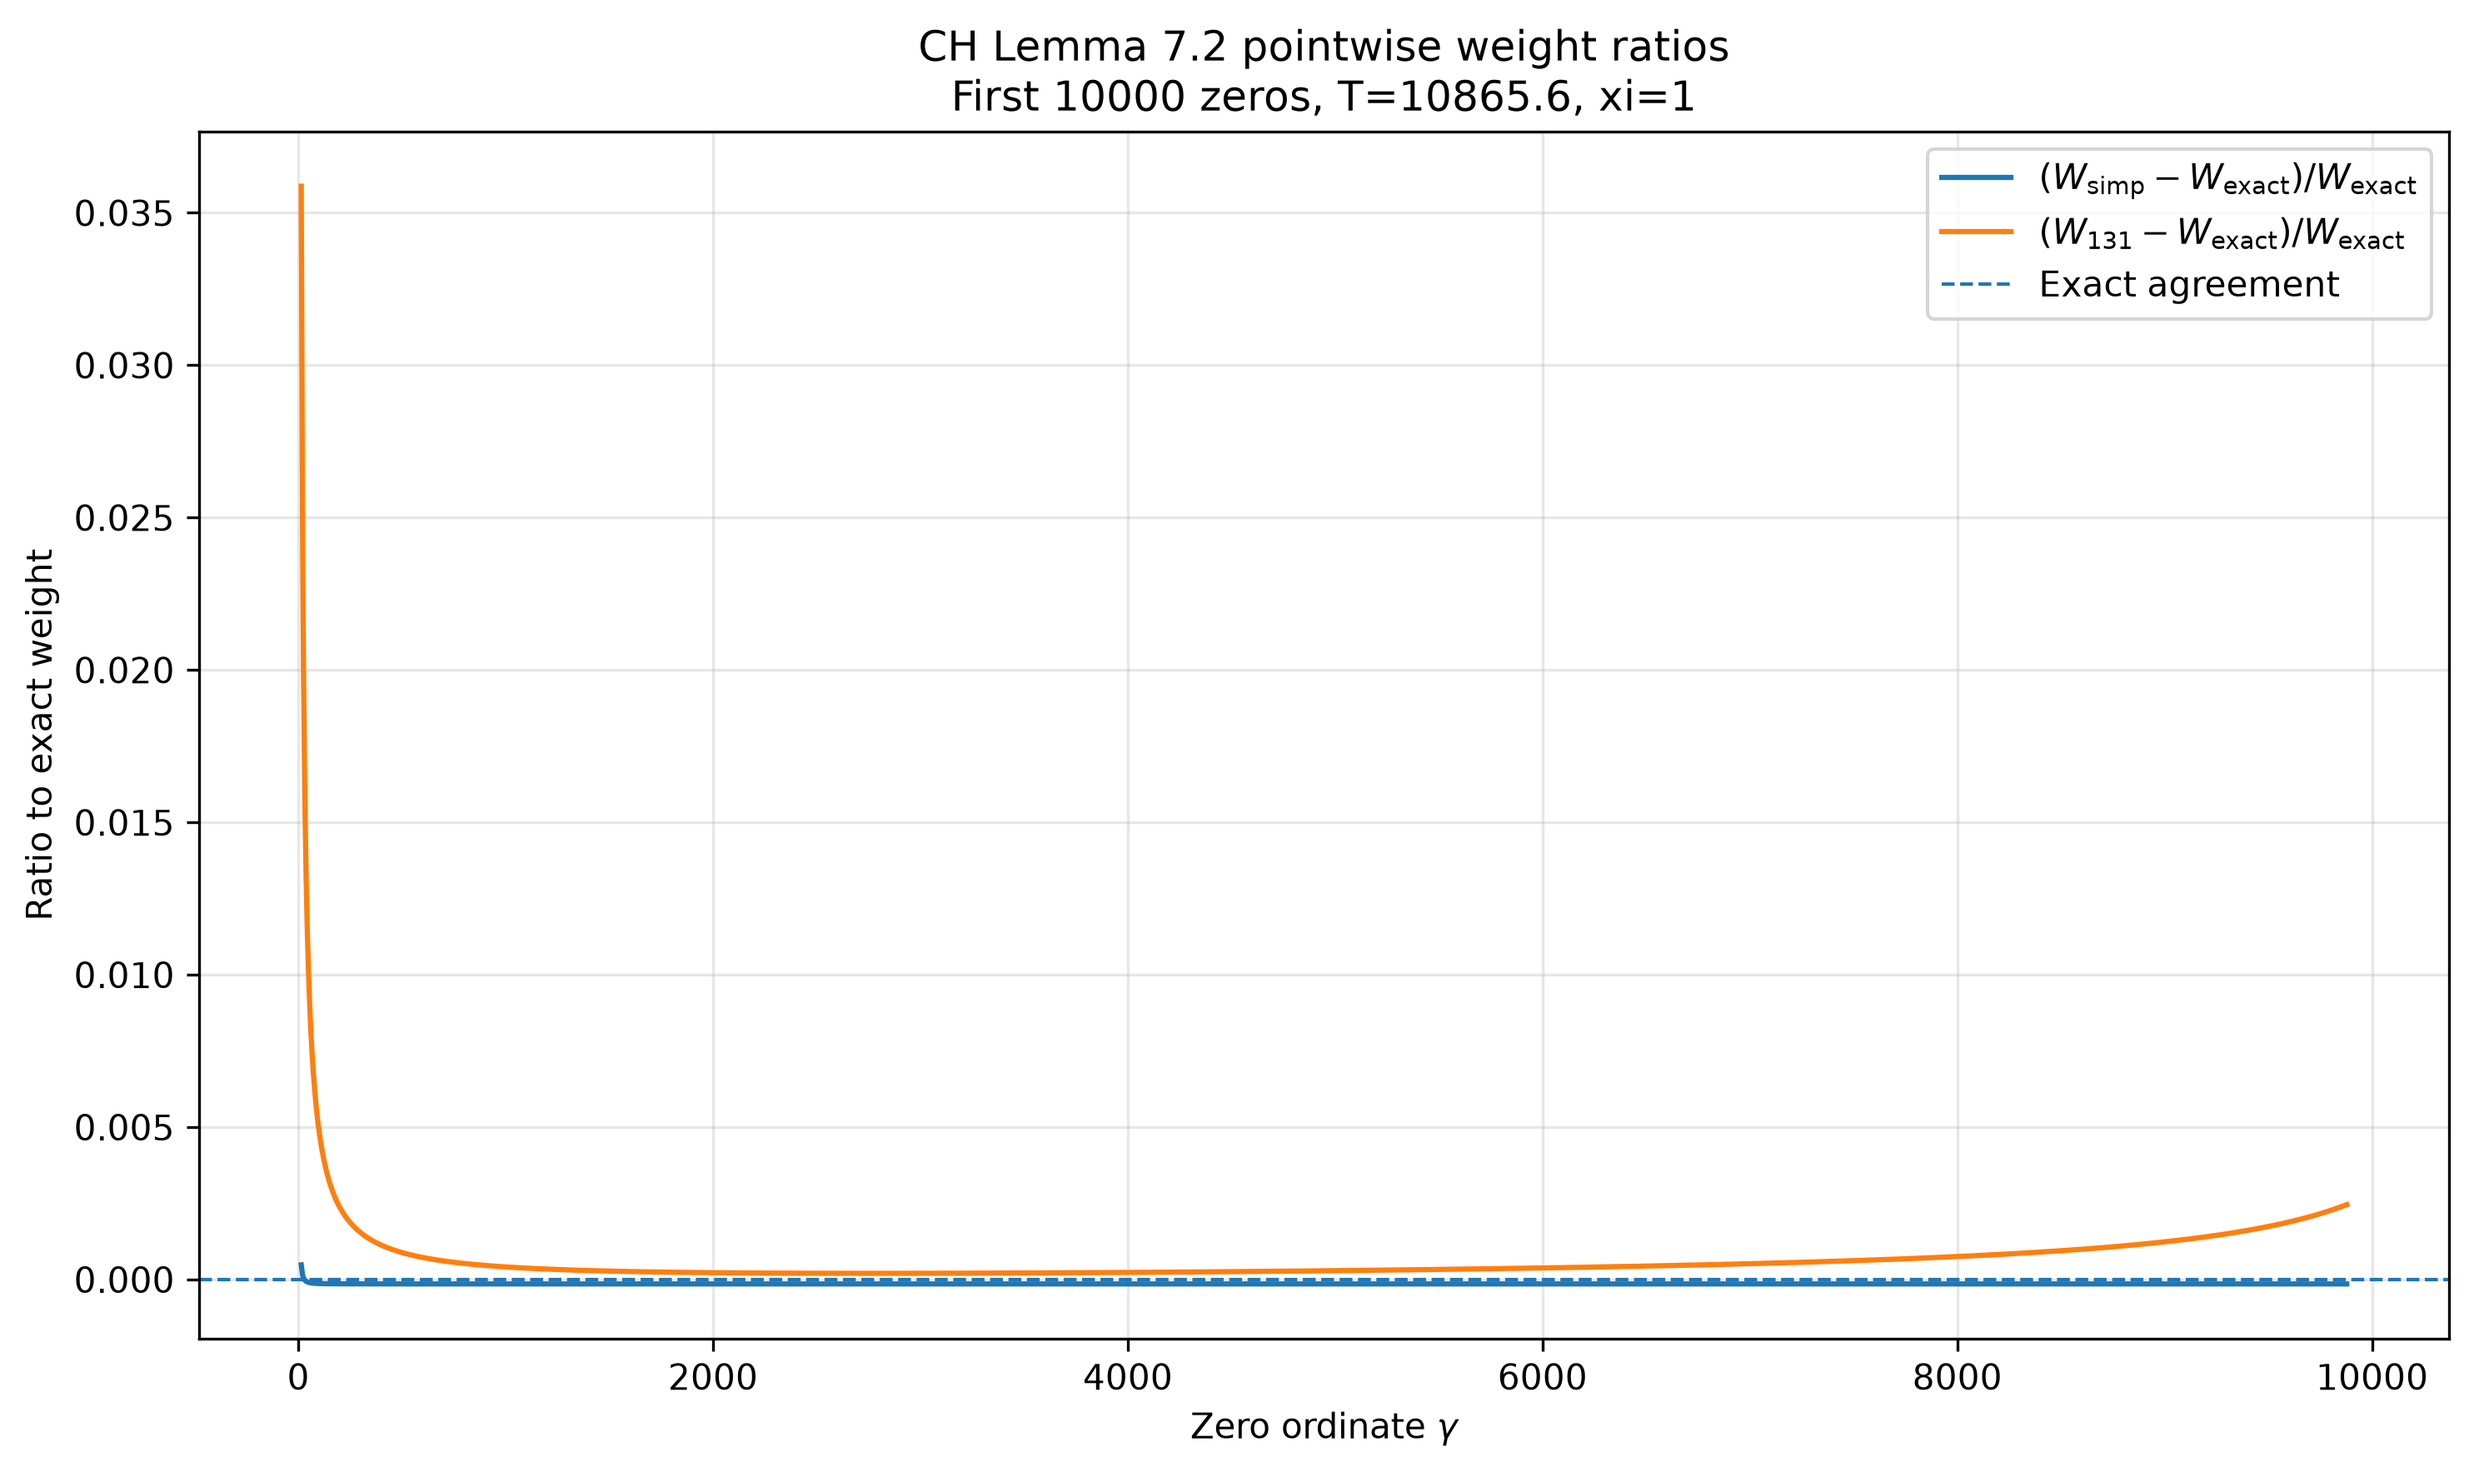
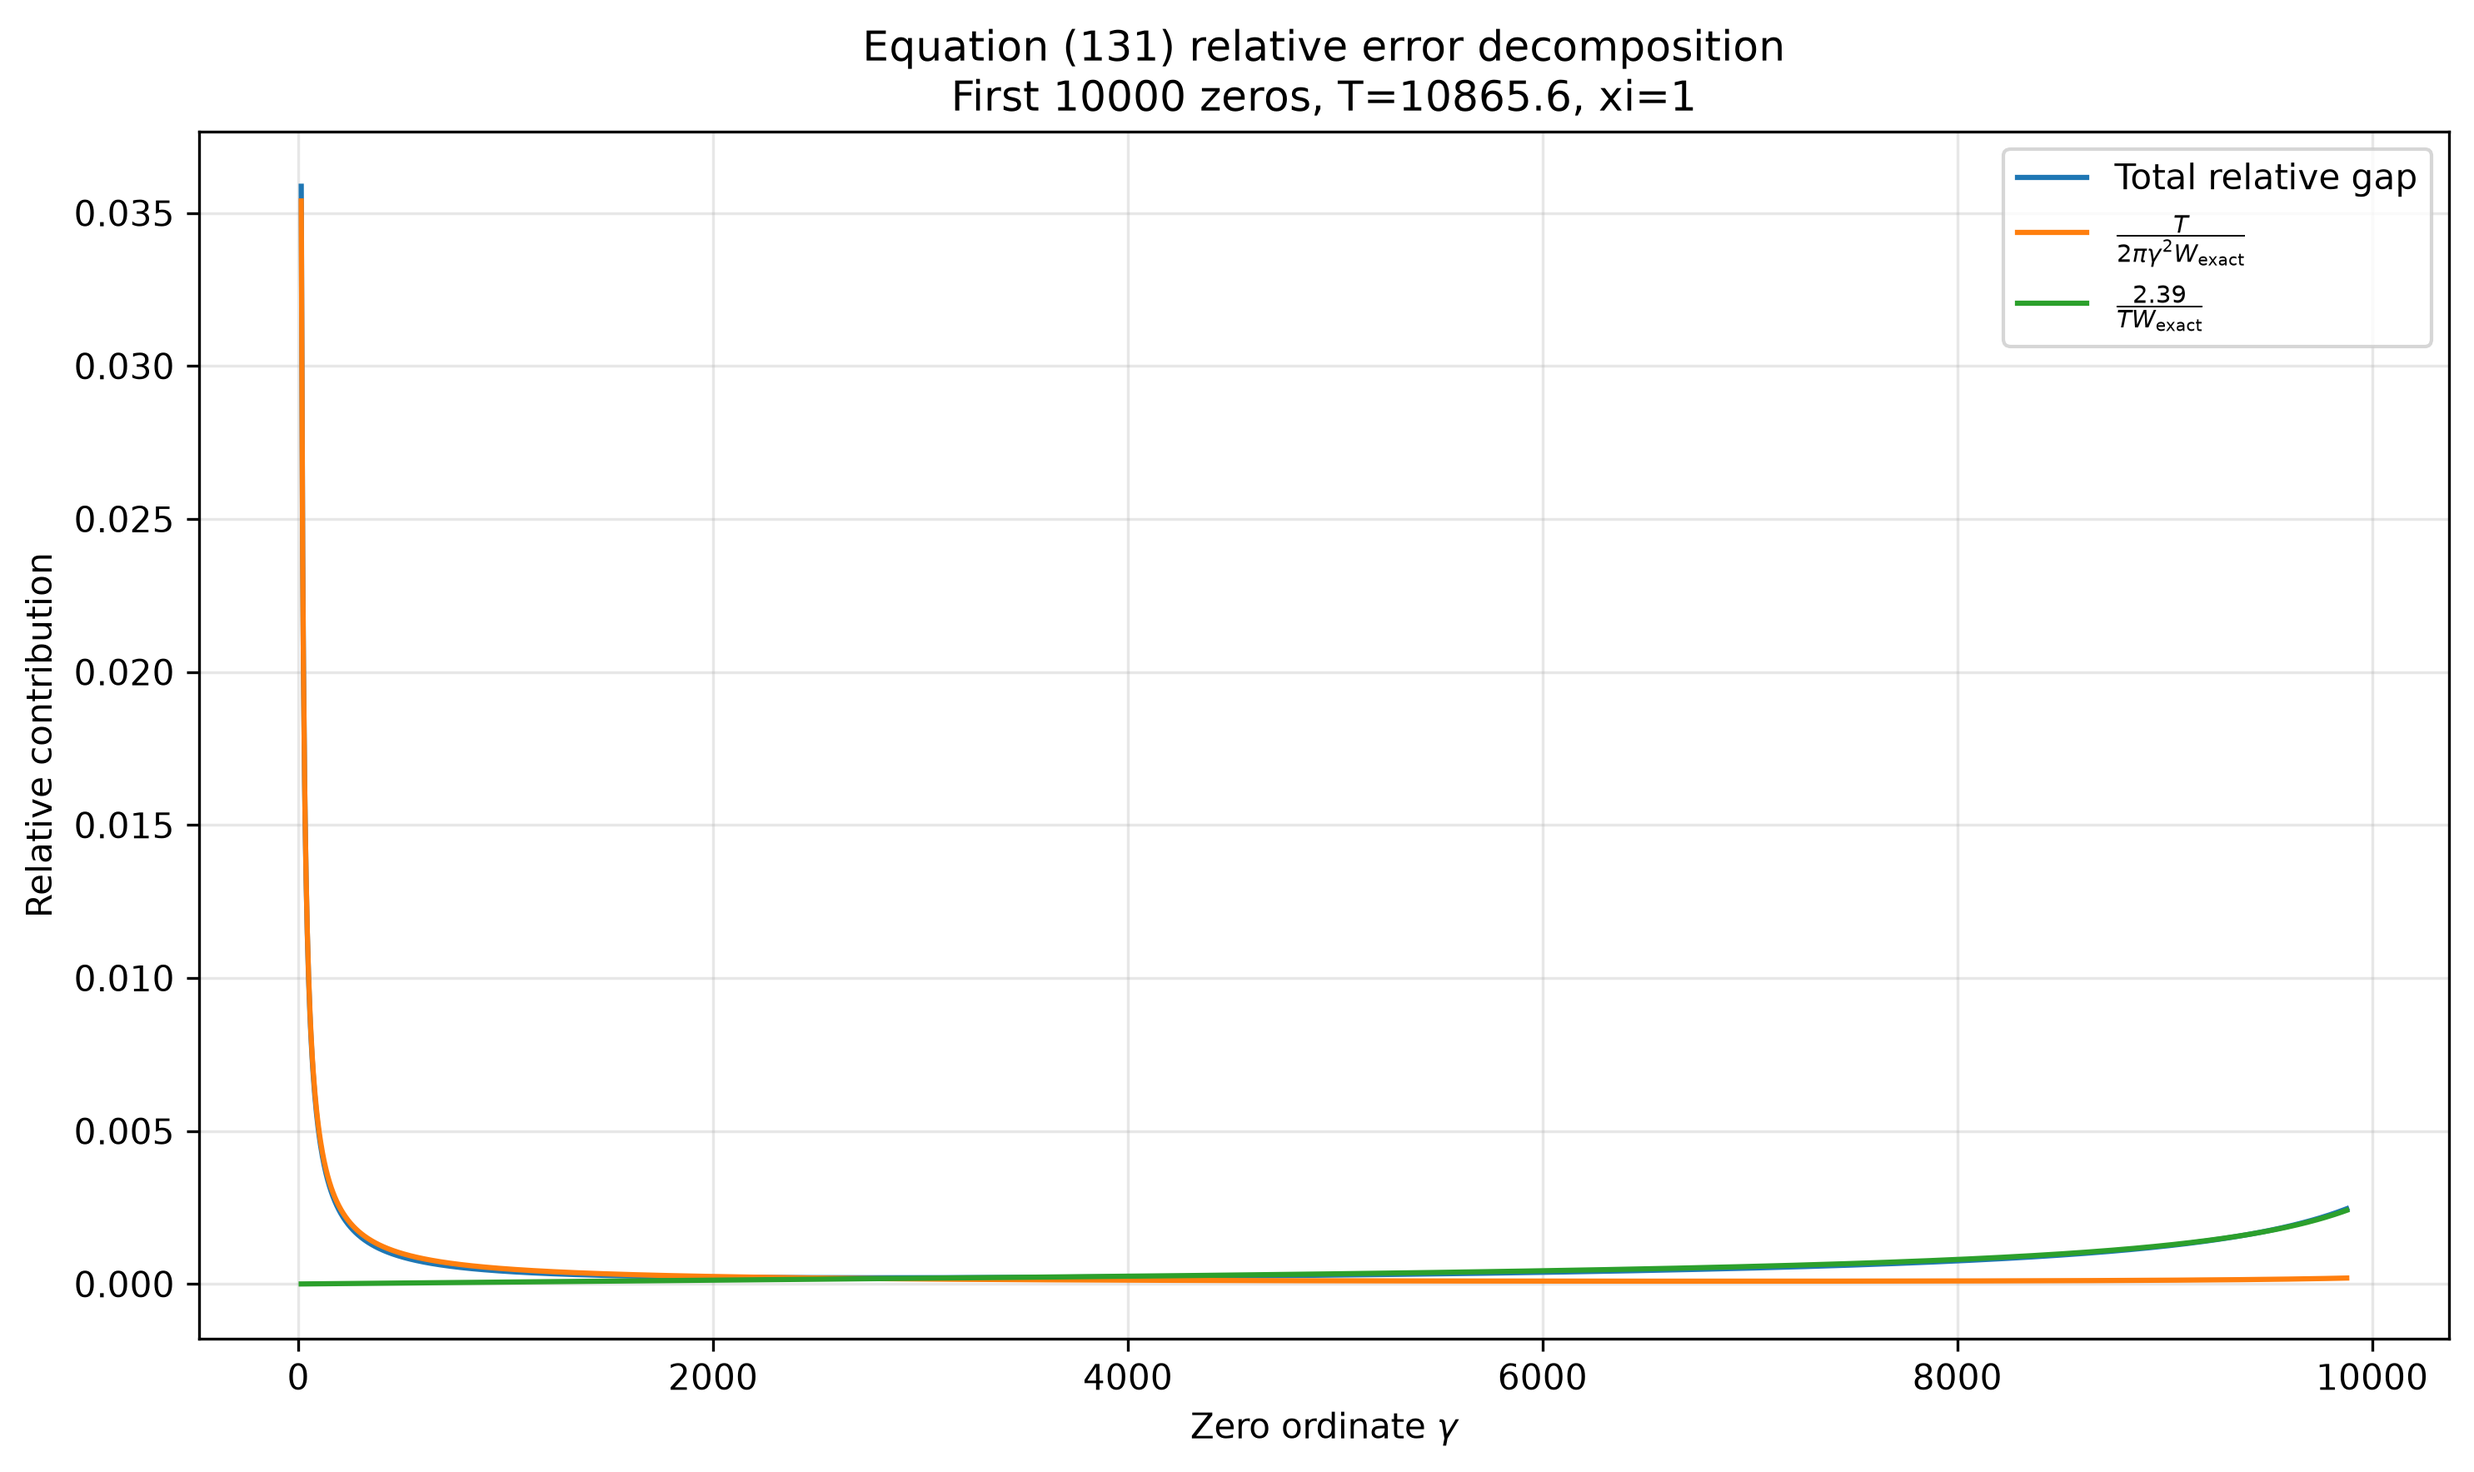
relative error plotting

diff --git a/src/thesis/weights.py b/src/thesis/weights.py
@@ -253,6 +253,9 @@ def compute_weight_comparison(n, T, xi):
         simplified = RF(simplified_weight(rho))
         upper = RF(upper_bound_131(rho))
 
+        reciprocal_square_error = T / (2 * PI_NUM * gamma**2)
+        constant_order_error = RF("2.39") / T
+
         records.append(
             {
                 "index": index,
@@ -264,7 +267,13 @@ def compute_weight_comparison(n, T, xi):
                 "upper_minus_exact": upper - exact,
                 "upper_minus_simp": upper - simplified,
                 "simp_relative_error": simplified / exact - 1,
-                "upper_relative_error": upper / exact - 1,
+                "upper_relative_gap": upper / exact - 1,
+                "reciprocal_relative_gap": (
+                    reciprocal_square_error / exact
+                ),
+                "constant_relative_gap": (
+                    constant_order_error / exact
+                ),
             }
         )
 
@@ -444,7 +453,7 @@ def plot_weight_ratios(
         for record in records
     ]
     upper_over_exact = [
-        float(record["upper_relative_error"])
+        float(record["upper_relative_gap"])
         for record in records
     ]
 
@@ -497,6 +506,87 @@ def plot_weight_ratios(
         plt.close(figure)
 
 
+def plot_relative_error_components(
+    records,
+    T,
+    xi,
+    output_path=None,
+    show=True,
+):
+    """
+    Decompose the relative gap in equation (131) into its
+    reciprocal-square and constant-order components.
+    """
+    if not records:
+        raise ValueError("records must be nonempty")
+
+    gammas = [
+        float(record["gamma"])
+        for record in records
+    ]
+    total_gap = [
+        float(record["upper_relative_gap"])
+        for record in records
+    ]
+    reciprocal_gap = [
+        float(record["reciprocal_relative_gap"])
+        for record in records
+    ]
+    constant_gap = [
+        float(record["constant_relative_gap"])
+        for record in records
+    ]
+
+    figure, axis = plt.subplots(figsize=(10, 6))
+
+    axis.plot(
+        gammas,
+        total_gap,
+        label=r"Total relative gap",
+        linewidth=1.5,
+    )
+    axis.plot(
+        gammas,
+        reciprocal_gap,
+        label=r"$\frac{T}{2\pi\gamma^2W_{\rm exact}}$",
+        linewidth=1.5,
+    )
+    axis.plot(
+        gammas,
+        constant_gap,
+        label=r"$\frac{2.39}{T W_{\rm exact}}$",
+        linewidth=1.5,
+    )
+
+    axis.set_xlabel(r"Zero ordinate $\gamma$")
+    axis.set_ylabel("Relative contribution")
+    axis.set_title(
+        "Equation (131) relative error decomposition\n"
+        f"First {len(records)} zeros, "
+        f"T={float(T):.6g}, xi={float(xi):.6g}"
+    )
+    axis.grid(True, alpha=0.3)
+    axis.legend()
+    figure.tight_layout()
+
+    if output_path is not None:
+        output_path = Path(output_path)
+        output_path.parent.mkdir(
+            parents=True,
+            exist_ok=True,
+        )
+        figure.savefig(
+            output_path,
+            dpi=300,
+            bbox_inches="tight",
+        )
+
+    if show:
+        plt.show()
+    else:
+        plt.close(figure)
+
+
 
 
 """
@@ -528,7 +618,7 @@ if __name__ == "__main__":
     for record in records:
         assert record["upper_minus_exact"] >= -tolerance
 
-    plot_weight_ratios(
+    plot_relative_error_components(
         records=records,
         T=T,
         xi=xi,
